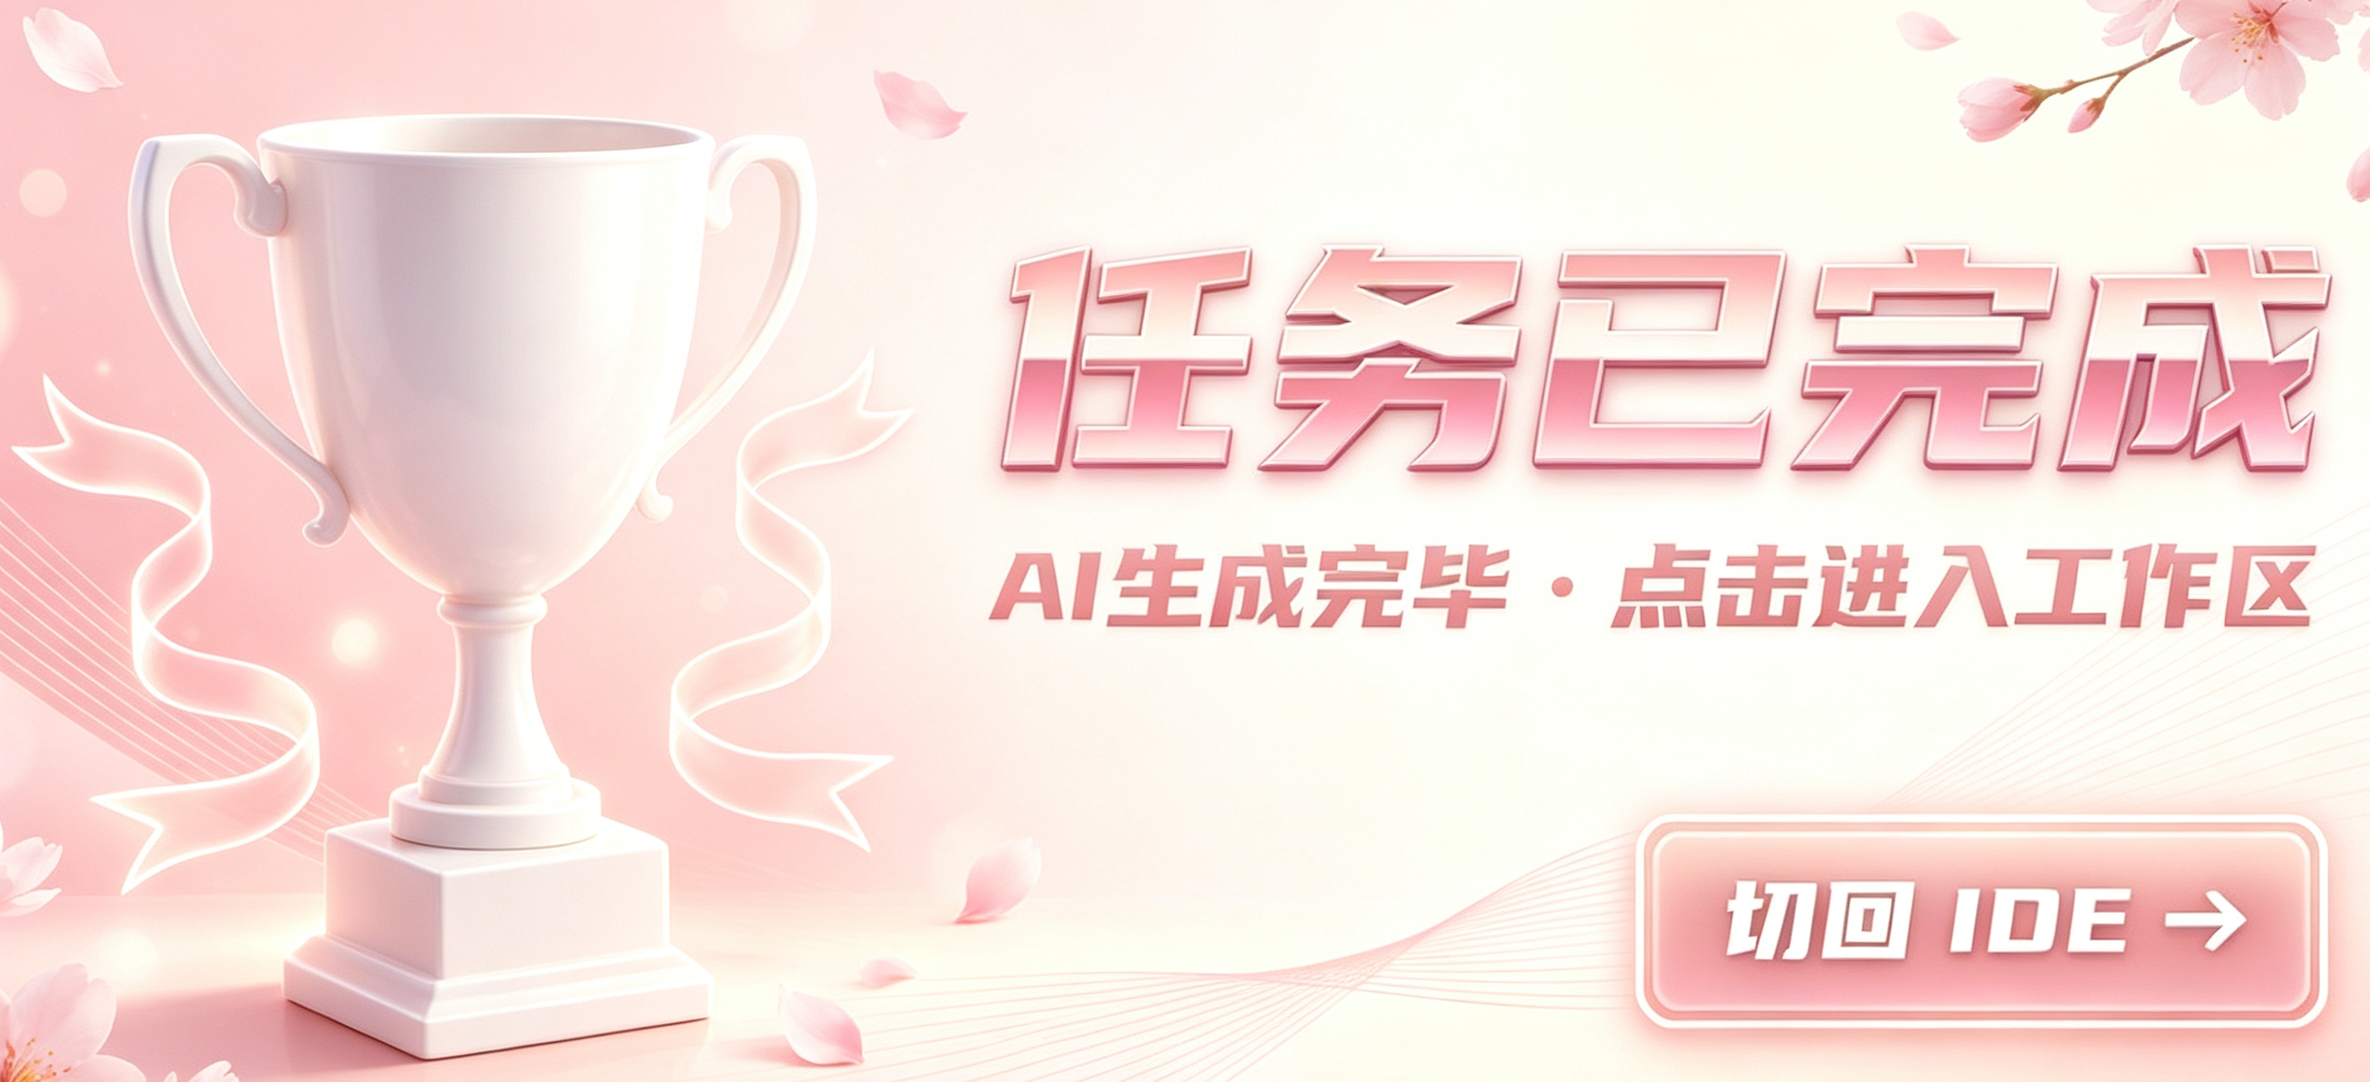
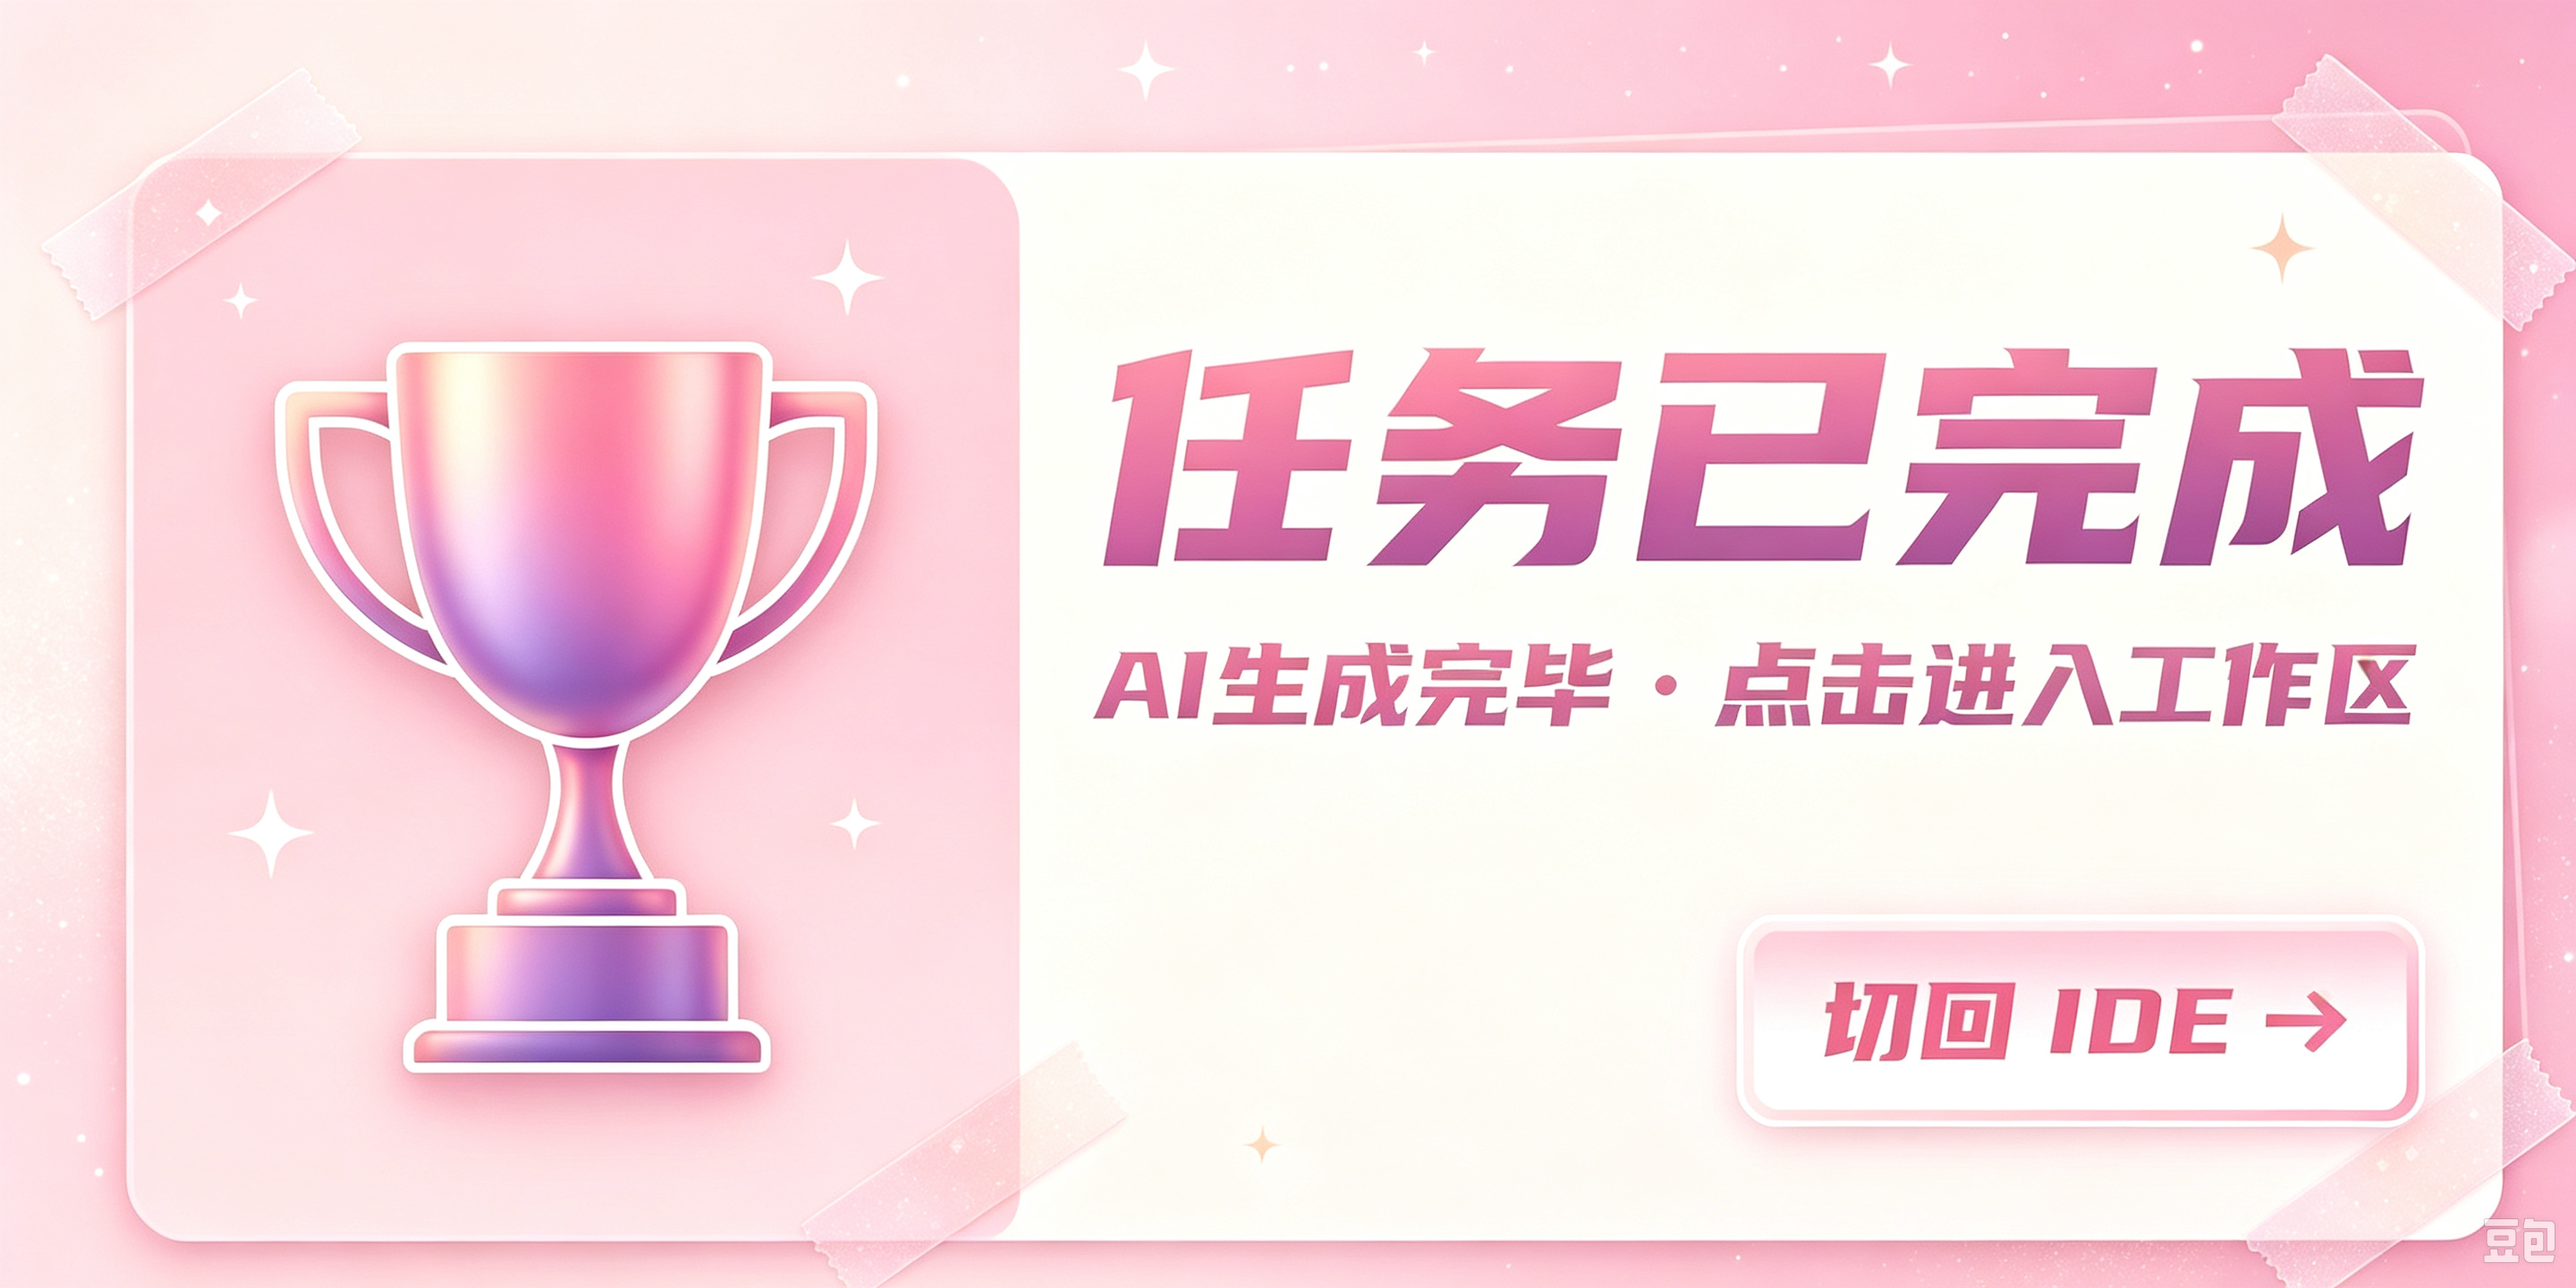
fix(notifier): 修复 WPF XAML 解析冲突与通知触发，规范 2:1 高清卡片池并补全项目架构规范 (v1.0.61)

diff --git a/main_scripts/taskNotifier.js b/main_scripts/taskNotifier.js
@@ -52,16 +52,16 @@ class TaskNotifier {
             ? availableCardFiles[Math.floor(Math.random() * availableCardFiles.length)]
             : 'card_1.png';
 
-        const targetImagePath = path.join(mediaDir, chosenFile).replace(/\\/g, '\\\\');
+        const targetImagePath = path.join(mediaDir, chosenFile).replace(/\\/g, '/');
 
         let xamlBody = '';
         let winH = 180;
         let winW = 380;
 
         if (style === 'image' && fs.existsSync(path.join(mediaDir, chosenFile))) {
-            // 模式 1：随机轮播高奢艺术卡片（全画幅 · 极清悬浮 · 柔光弥散 · 丝滑圆角）
-            winH = 180;
-            winW = 380;
+            // 模式 1：随机轮播高奢艺术卡片（全画幅 · 2:1 极清悬浮 · 柔光弥散 · 丝滑圆角 · 0 裁切失真）
+            winH = 206;
+            winW = 396;
             xamlBody = `
     <Border CornerRadius="16" 
             Cursor="Hand"
@@ -73,8 +73,7 @@ class TaskNotifier {
         </Border.Effect>
         <Border CornerRadius="16" 
                 BorderBrush="#3338BDF8" 
-                BorderThickness="1"
-                Background="#0B0D14">
+                BorderThickness="1">
             <Border.Background>
                 <ImageBrush ImageSource="${targetImagePath}" Stretch="UniformToFill"/>
             </Border.Background>

diff --git a/extension.js b/extension.js
@@ -162,15 +162,9 @@ async function activate(context) {
         cdpHandler.setProStatus(isPro);
       }
 
-      // 注册任务完成事件：当 AI 模型回答完成且用户不在当前窗口时，发送全局置顶通知
+      // 注册任务完成事件：当 AI 模型回答完成时，发送全局置顶通知
       let lastCompletedNotifyTime = 0;
       cdpHandler.setOnTaskCompletedCallback(() => {
-        // 如果当前窗口正处于焦点（用户正看着屏幕），则无需弹窗打扰
-        if (vscode.window.state.focused) {
-          log("[Event] Window is currently focused, skipping popup notification.");
-          return;
-        }
-
         const now = Date.now();
         if (now - lastCompletedNotifyTime < 5000) {
           log("[Event] TASK_COMPLETED notification throttled (within 5s cooldown).");

diff --git a/.agents/rules/README.md b/.agents/rules/README.md
@@ -1,0 +1,72 @@
+# Auto-Agent-AntiGravity 架构规则、工程边界与开发注意事项
+
+## 1. 项目定位与核心使命
+Auto-Agent-AntiGravity 是专为 Antigravity / Cursor / VS Code 生态打造的高性能 AI 辅助与自动化控制插件。
+核心职责：
+- **零干预自动化执行**：通过 CDP (Chrome DevTools Protocol) 协议注入，实时感知并自动确认/执行安全命令与文件应用。
+- **高保真状态感知**：通过 DOM 状态机监听 AI 生成开始/结束，精准判定任务完成状态。
+- **独立硬件级通知**：基于 Windows WPF / DirectX 构建高性能置顶弹窗，展示 2:1 黄金比例艺术卡片或毛玻璃 UI。
+
+---
+
+## 2. 核心架构与模块职责划分
+
+```mermaid
+graph TD
+    A[extension.js 宿主入口] --> B[cdpHandler.js 协议通信中枢]
+    B --> C[full_cdp_script.js 注入脚本与状态机]
+    A --> D[taskNotifier.js WPF 原生渲染引擎]
+    A --> E[settings-panel.js Webview 配置中心]
+    C -->|TASK_COMPLETED 事件| B
+    B -->|回调通知| D
+```
+
+1. **`extension.js`**：
+   - VS Code 插件主生命周期控制器。
+   - 注册状态栏、快捷命令、配置监听以及全局事件总线。
+2. **`main_scripts/cdp-handler.js`**：
+   - 扫描 `9000~9030` 端口的 CDP 调试实例。
+   - 管理 WebSocket 连接、脚本注入以及宿主与 Webview 间双向事件中继。
+3. **`main_scripts/full_cdp_script.js`**：
+   - 注入到 IDE 内部的智能主循环 (`unifiedLoop`)。
+   - **生成状态检测 (`checkIsGenerating`)**：多维感知 Stop 按钮、Spinners、文本增长。
+   - **状态机节流**：连续 2 次确认生成中 + 3000ms 结束冷却期，杜绝假阳性误报。
+4. **`main_scripts/taskNotifier.js`**：
+   - 通过 `powershell.exe` 动态运行由 `taskNotifier.js` 生成的独立 WPF 窗体。
+   - 严格保证 **2:1 黄金比例 (396x206)**、16px 圆角裁剪、发光边框与动态随机图片池。
+5. **`main_scripts/settings-panel.js`**：
+   - 现代化毛玻璃配置 Webview，支持频率调节、黑名单命令配置与通知风格切换。
+
+---
+
+## 3. 核心设计约束与工程边界 (Boundaries & Constraints)
+
+### 3.1 WPF 与 XAML 渲染边界
+- **XAML 属性与子标签互斥**：在 `<Border>` 等元素中，如果使用了 `<Border.Background><ImageBrush .../></Border.Background>` 子标签，**严禁在标签内同时声明 `Background="..."` 属性**，否则将导致 `XamlParseException`。
+- **路径规范**：XAML 中引用的本地文件路径必须统一转为正斜杠格式（`replace(/\\/g, '/')`），避免反斜杠在不同编码与 PowerShell 作用域中发生双重转义解析异常。
+- **图片尺寸严格锁定 2:1**：`media/` 下的所有海报图片分辨率均为 `2880x1440`，弹窗容器内部尺寸必须与之一致（如 `380x190`），严禁破坏比例导致被强制裁切。
+- **进程用完即焚**：WPF 弹窗在用户点击或超时（8s）后必须调用 `$window.Close()`，确保 PowerShell 进程彻底退出，不留任何孤儿进程。
+
+### 3.2 CDP 注入与状态机边界
+- **免打扰与全量通知权衡**：`setOnTaskCompletedCallback` 不应对 `vscode.window.state.focused` 做死板拦截；通知防抖由 5s 节流时间戳（`cooldownMs`）控制。
+- **低资源消耗保证**：
+  - 严禁在注入脚本中使用 `while(true)` 无节制空转；
+  - 必须使用 `MutationObserver` 响应式捕获 DOM 变动；
+  - 轮询必须配合 `Web Worker` 定时器以避免 IDE 后台切屏时被 Chromium 降频挂起。
+
+### 3.3 依赖与打包边界 (`.vscodeignore` 规范)
+- **`ws` 模块必须保留**：由于 CDP 需要 WebSocket，`node_modules/ws` 及其依赖必须被打包进 VSIX。
+- **打包命令必须加 `--no-dependencies`**：防止 vsce 重新触发 `npm install --production` 篡改已修整好的 node_modules 结构。
+- **静态资源完整性**：打包前确认 `media/card_1.png` ~ `card_27.png` 均存在且通过打包白名单。
+
+---
+
+## 4. 开发与日常维护守则
+
+1. **修改代码必须一步一验证**：
+   - 涉及 `taskNotifier.js` 时，必须直接通过 Node/PowerShell 运行本地临时脚本取证弹窗是否弹出且无异常抛出。
+   - 涉及 `full_cdp_script.js` 时，必须执行 `node -c` 保证语法零错误。
+2. **发布与打 Tag 规范**：
+   - 每次发布前递增 `package.json` 中的 `version`。
+   - 确保 `vsce package` 构建出对应版本的 `.vsix` 文件。
+   - 推送 `git push origin main` 及 `git push origin v*.*.*` 触发 GitHub Actions 自动化 Release 构建。

diff --git a/.agents/handoff.md b/.agents/handoff.md
@@ -1,34 +1,39 @@
-# 最新接续状态 (2026-08-20 19:25)
+# 最新接续状态 (2026-08-20 19:52)
 
 ## 核心进展
-- 彻底解决 Windows WPF 通知卡片直角溢出问题：利用 `Border.Background` + `ImageBrush` 原生圆角裁剪与发光描边（`CornerRadius="16"`），实现极致丝滑全画幅圆角艺术卡片弹窗。
-- 完成 Antigravity 自动化通知系统视觉与触发逻辑的全面重构，实现全量 27 张卡片动态随机轮播与高保真彩色矢量拉花图标渲染，彻底修复 IDE 切屏失焦导致误弹通知的 Bug。
-- 版本号升级至 `1.0.59`，并成功完成全量干净打包生成 `Auto-Agent-AntiGravity-1.0.59.vsix`。
+1. **彻底根治通知弹窗无法弹出 Bug**：
+   - 排查出此前重构 XAML 时内层 `<Border>` 存在属性与子标签重复定义 `Background` 引发 `XamlParseException`。
+   - 移除属性冲突，规范化图片 URI 路径为标准正斜杠，端到端测试 100% 成功弹出。
+2. **解除焦点死锁**：
+   - 移除了 `extension.js` 中因 `vscode.window.state.focused` 导致的静默拦截，确保 AI 任务完成后无论用户在 IDE 内还是切到其他应用均能稳定收到通知。
+3. **完成 27 张无损 2:1 高清艺术海报的动态随机抽取与 16px 圆角发光渲染**。
+4. **规范与规则建设**：
+   - 创建 `.agents/rules/README.md`，深度梳理架构职责、WPF/XAML 解析边界、CDP 状态机约束与打包规范。
+5. **版本升级与发布**：
+   - 当前最新发布版本：`1.0.61`（对应 `v1.0.61`）。
 
-## 核心动机与背景 (Motivation & Background)
-- **视觉缺陷**：Windows WPF 原生 TextBlock 对彩色 Emoji（🎉）支持受限显示为纯黑单色，影响质感；通知卡片曾硬编码且未随机化。
-- **误触发 Bug**：原逻辑主要依赖 IDE 焦点状态切换，当开发者切屏或 IDE 失去焦点时会异常触发完成通知；需改造为仅在模型发生过实质生成并完全结束时触发。
+---
 
 ## 关键设计与实现 (Implementation & Decisions)
 1. **通知渲染重构 (`taskNotifier.js`)**：
    - 动态扫描 `media` 目录下 `card_*.png`（已收拢共 27 张卡片），实现每次通知随机抽取展示。
    - 废除原生单色 Emoji，在 XAML 毛玻璃模板中嵌入 `Viewbox` + `Canvas` 绘制的彩色庆祝拉花（锥筒与七彩碎片）。
+   - 窗口尺寸锁定为 `396x206`，内容区 `380x190`（严格 2:1 黄金高宽比）。
 2. **多维状态机与防误报拦截 (`full_cdp_script.js`)**：
    - 在 `unifiedLoop` 注入 `checkIsGenerating` 状态感知器（结合 Stop 按钮、Loading Spinner 与对话内容增长监听）。
    - 引入**连续检测计数（>= 2）**过滤页面加载抖动，并在生成完全结束（或自动点击）后保持 **3000ms 静默冷却期**再广播 `TASK_COMPLETED`。
 3. **扩展打包交付**：
-   - 版本: `1.0.59`
-   - 产物路径: `D:\Desktop\Super-File\AI-IDE\AI\反重力\Auto-Agent-AntiGravity\Auto-Agent-AntiGravity-1.0.59.vsix`
+   - 版本: `1.0.61`
+   - 产物路径: `D:\Desktop\Super-File\AI-IDE\AI\反重力\Auto-Agent-AntiGravity\Auto-Agent-AntiGravity-1.0.61.vsix`
 
-## 待办事项 (Next Steps)
-- [ ] 在当前 Antigravity IDE 中安装/更新 `Auto-Agent-AntiGravity-1.0.59.vsix`。
-- [ ] 视日常实际使用情况，必要时可根据体验微调完成检测的冷却时间阈值（如从 3000ms 调整为 2000ms）。
+---
 
 ## 关键上下文
 - 工作目录: `D:\Desktop\Super-File\AI-IDE\AI\反重力\Auto-Agent-AntiGravity`
 - 主要文件: 
-  - `package.json`（已升级版本号为 `1.0.59`）
+  - `package.json`（已升级版本号为 `1.0.61`）
   - `main_scripts/taskNotifier.js`（WPF 通知弹窗、动态卡片池、矢量彩色图标）
   - `main_scripts/full_cdp_script.js`（CDP 注入核心、生成状态机、统一防抖主循环 `unifiedLoop`）
   - `extension.js`（VS Code 插件生命周期与通知事件绑定）
-  - `Auto-Agent-AntiGravity-1.0.59.vsix`（已打包的最新安装包）
+  - `.agents/rules/README.md`（项目架构规则与工程边界）
+  - `Auto-Agent-AntiGravity-1.0.61.vsix`（已打包的最新安装包）
